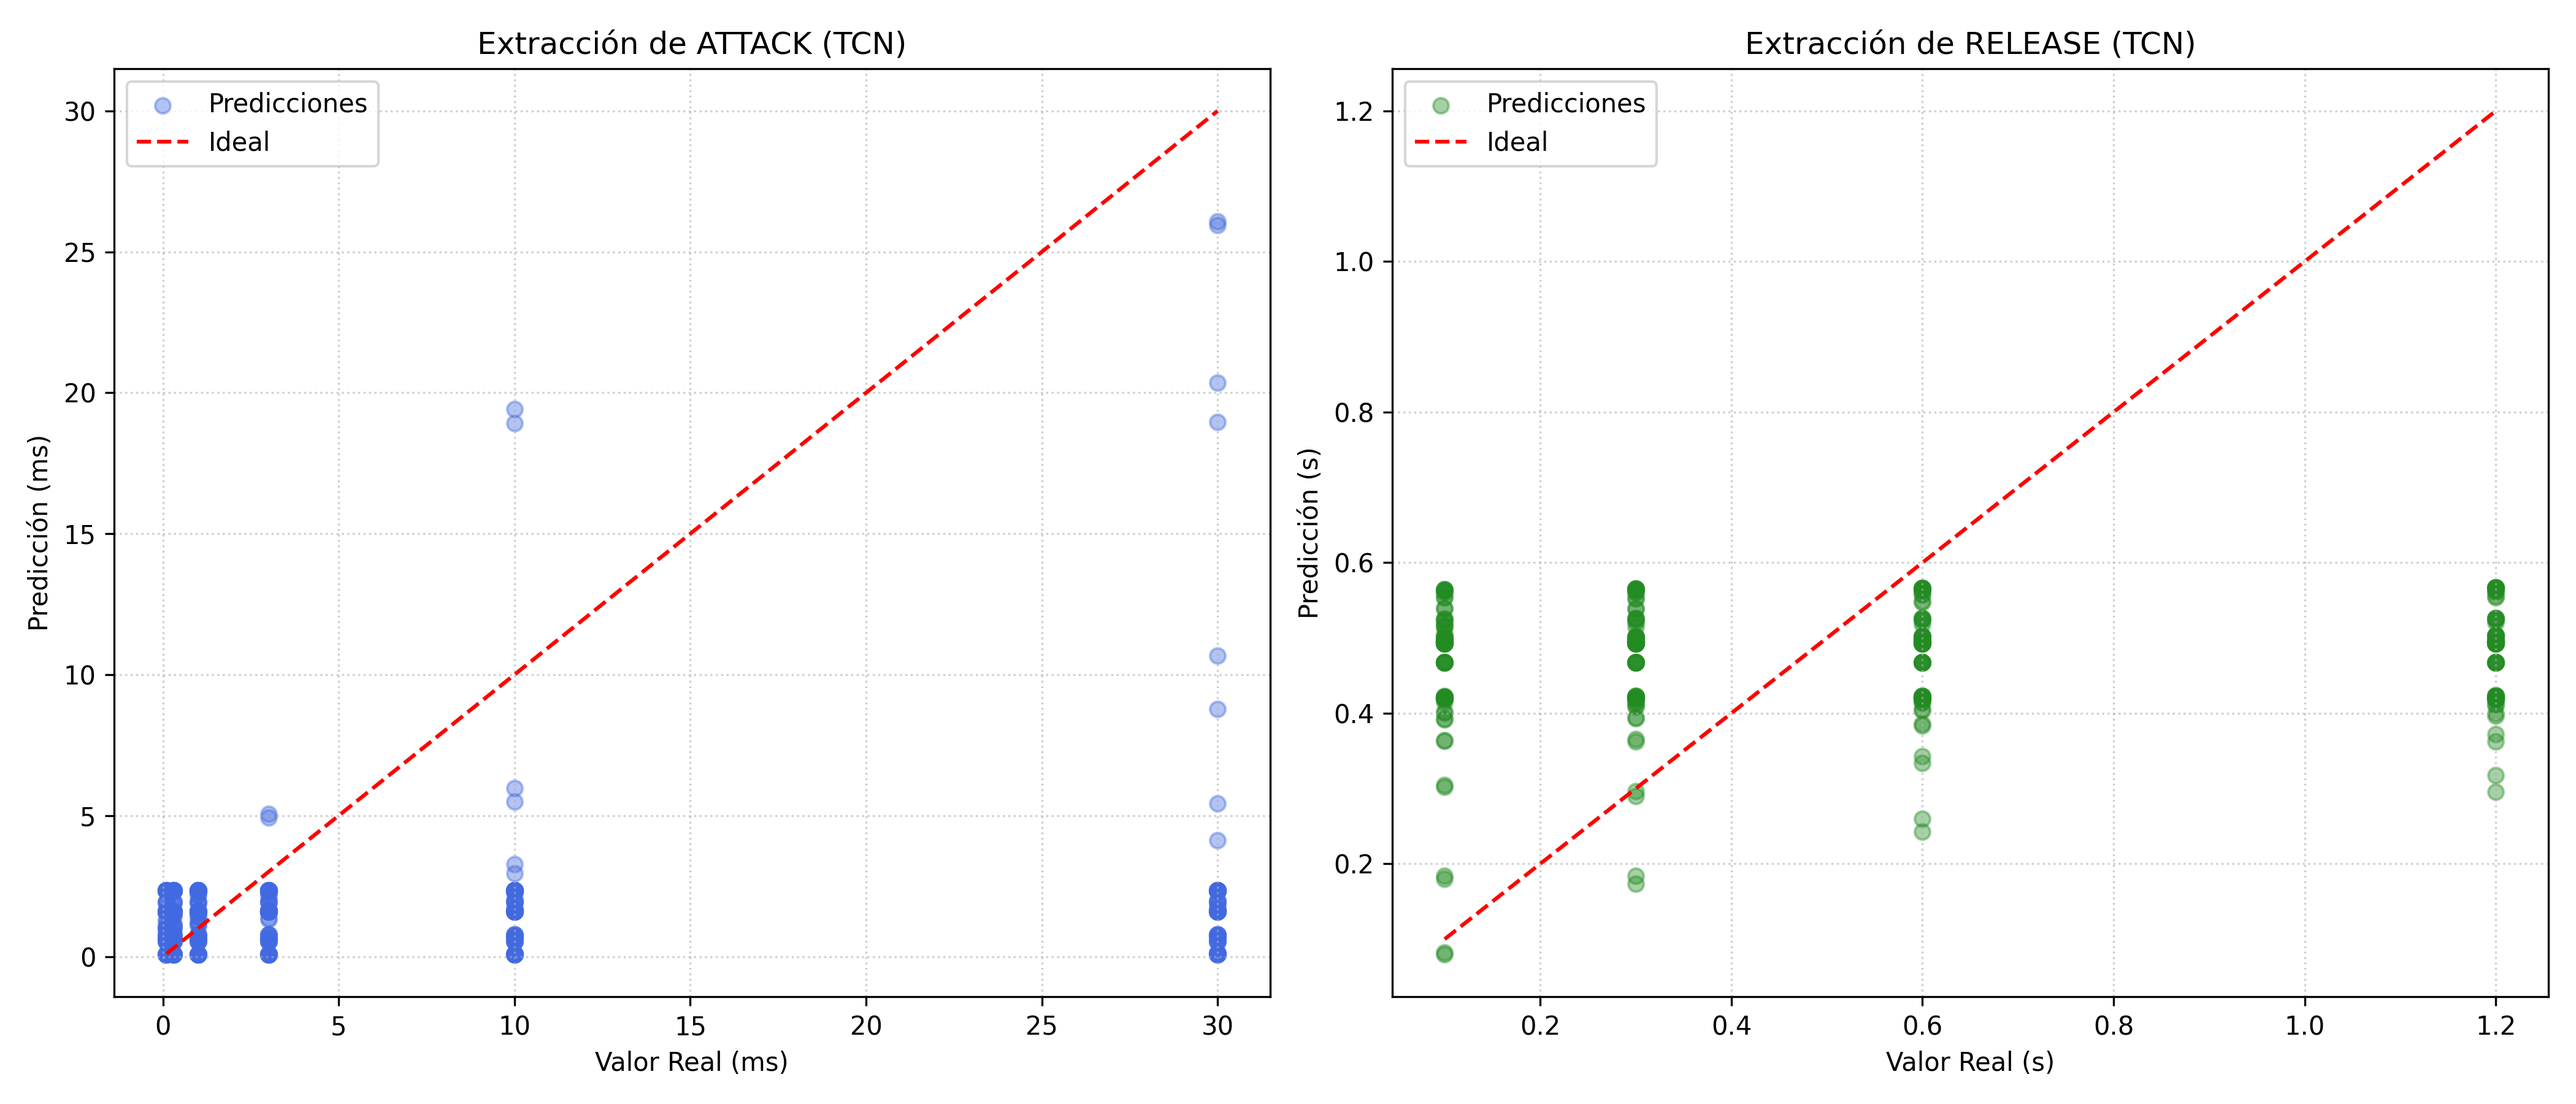
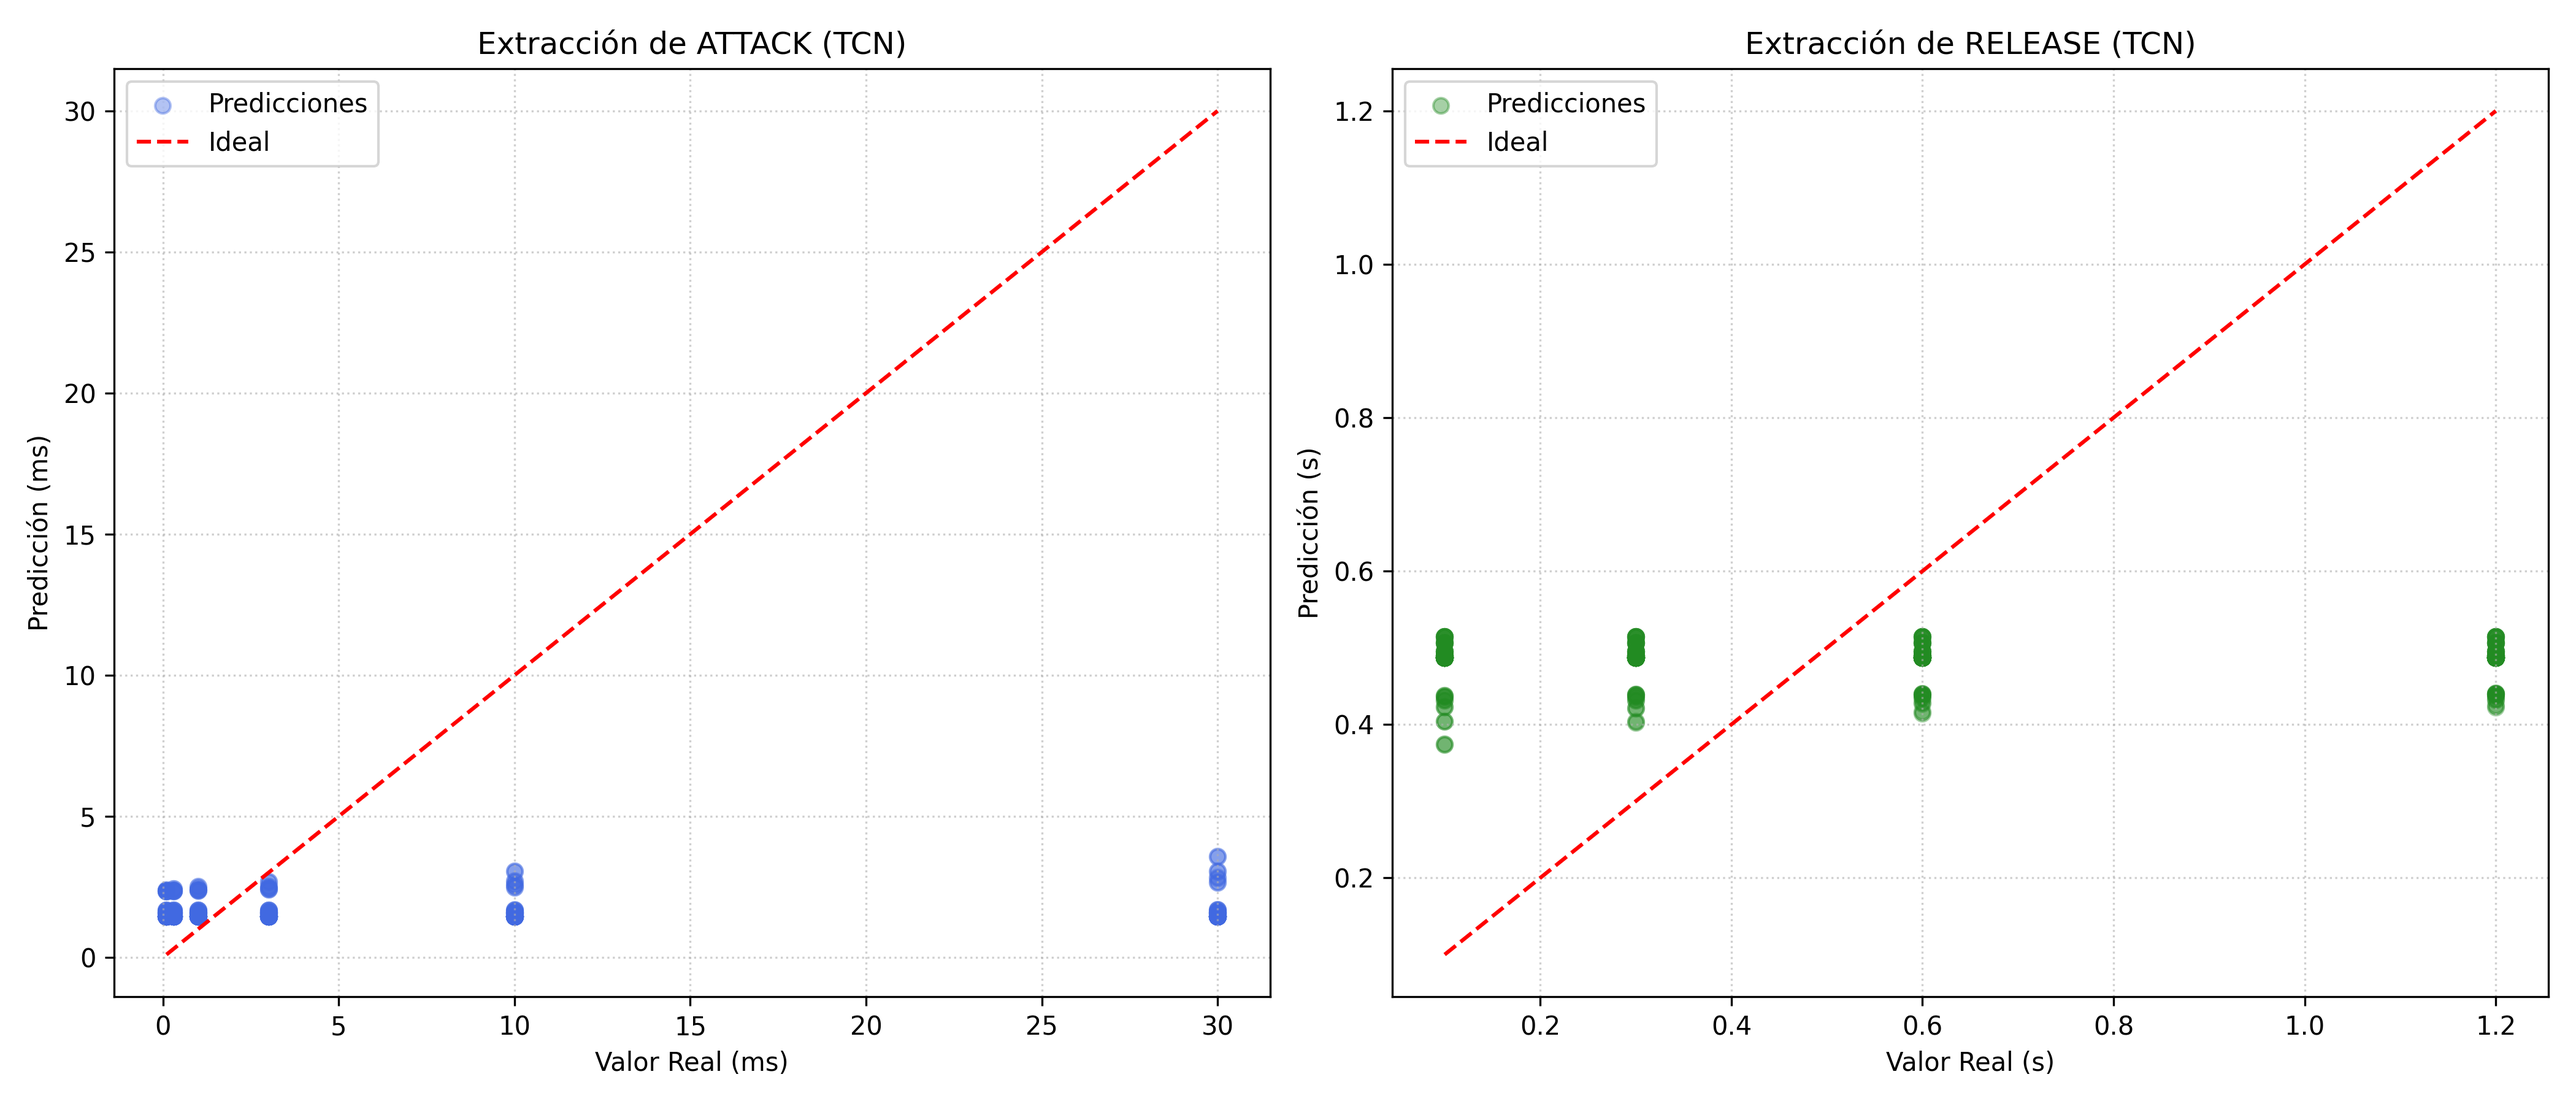
Fourth evaluation done. Changes in the code of dataset.py were made because of logic issues

diff --git a/data_utils/dataset.py b/data_utils/dataset.py
@@ -12,62 +12,59 @@ class CompressorDataset(Dataset):
         self.metadata = pd.read_csv(csv_path)
         self.metadata = self.metadata[self.metadata['stage'] == stage]
         
+        # Apuntamos a la carpeta del stage (ej: data_ready/train)
         self.audio_root = Path(audio_root).resolve() / stage 
         self.target_sr = target_sr
-        self.duration_samples = duration_samples # Por defecto 1 segundo a 16kHz
+        self.duration_samples = duration_samples
         
         self.audio_data = []
         self.params = []
         
-        print(f"\n--- DEBUG DATASET ---")
-        print(f"Buscando audios de {stage} en: {self.audio_root}")
-        
-        archivos_encontrados = list(self.audio_root.rglob("*.wav"))
-        archivos_reales = {f.name.lower(): f for f in archivos_encontrados}
-        
-        print(f"Archivos .wav encontrados: {len(archivos_reales)}")
-        
+        print(f"\n--- CARGANDO DATASET: {stage.upper()} ---")
+        print(f"Ruta: {self.audio_root}")
+
         for _, row in tqdm(self.metadata.iterrows(), total=len(self.metadata)):
-            filename = str(row['filename']).lower()
-            if not filename.endswith('.wav'):
-                filename += '.wav'
+            filename = row['filename']
             
-            if filename in archivos_reales:
-                audio_path = archivos_reales[filename]
+            # Buscamos el original (input) y el procesado (target)
+            path_dry = self.audio_root / "input" / filename
+            path_wet = self.audio_root / "target" / filename
+            
+            if path_dry.exists() and path_wet.exists():
                 try:
-                    # 1. Carga con Librosa
-                    waveform, _ = librosa.load(str(audio_path), sr=self.target_sr, mono=False)
+                    # 1. Cargar pistas individuales
+                    audio_dry, _ = librosa.load(str(path_dry), sr=self.target_sr, mono=True)
+                    audio_wet, _ = librosa.load(str(path_wet), sr=self.target_sr, mono=True)
                     
-                    # 2. Asegurar 2 canales (si es mono, duplicamos)
-                    if waveform.ndim == 1:
-                        waveform = np.stack([waveform, waveform])
-                    elif waveform.shape[0] > 2: # Si tiene más de 2, recortar
-                        waveform = waveform[:2, :]
-                    
+                    # 2. Apilar en 2 canales: [0] = Dry, [1] = Wet
+                    waveform = np.stack([audio_dry, audio_wet])
                     waveform_tensor = torch.from_numpy(waveform).float()
                     
-                    # 3. FORZAR LONGITUD (Crucial para el entrenamiento por batches)
+                    # 3. ASEGURAR LONGITUD (Padding/Cropping)
                     # Si es más largo, recortamos
                     if waveform_tensor.shape[1] > self.duration_samples:
                         waveform_tensor = waveform_tensor[:, :self.duration_samples]
-                    # Si es más corto, rellenamos con ceros (padding)
+                    # Si es más corto, rellenamos con ceros
                     elif waveform_tensor.shape[1] < self.duration_samples:
                         padding = self.duration_samples - waveform_tensor.shape[1]
                         waveform_tensor = torch.nn.functional.pad(waveform_tensor, (0, padding))
                     
                     self.audio_data.append(waveform_tensor)
                     
-                    # 4. Normalización de parámetros (Attack hasta 30ms, Release hasta 1.2s)
+                    # 4. Parámetros normalizados (Attack/30, Release/1.2)
                     self.params.append(torch.tensor([
                         row['attack'] / 30.0, 
                         row['release'] / 1.2
                     ], dtype=torch.float32))
 
-                except Exception:
+                except Exception as e:
+                    # print(f"Error en {filename}: {e}")
                     continue
 
         if len(self.audio_data) == 0:
-            raise RuntimeError(f"No se cargó nada en {stage}. Revisa los nombres en el CSV.")
+            raise RuntimeError(f"No se pudo cargar ningún par de audios en {self.audio_root}")
+        
+        print(f"Cargadas {len(self.audio_data)} muestras con éxito.")
 
     def __getitem__(self, idx):
         return self.audio_data[idx], self.params[idx]
